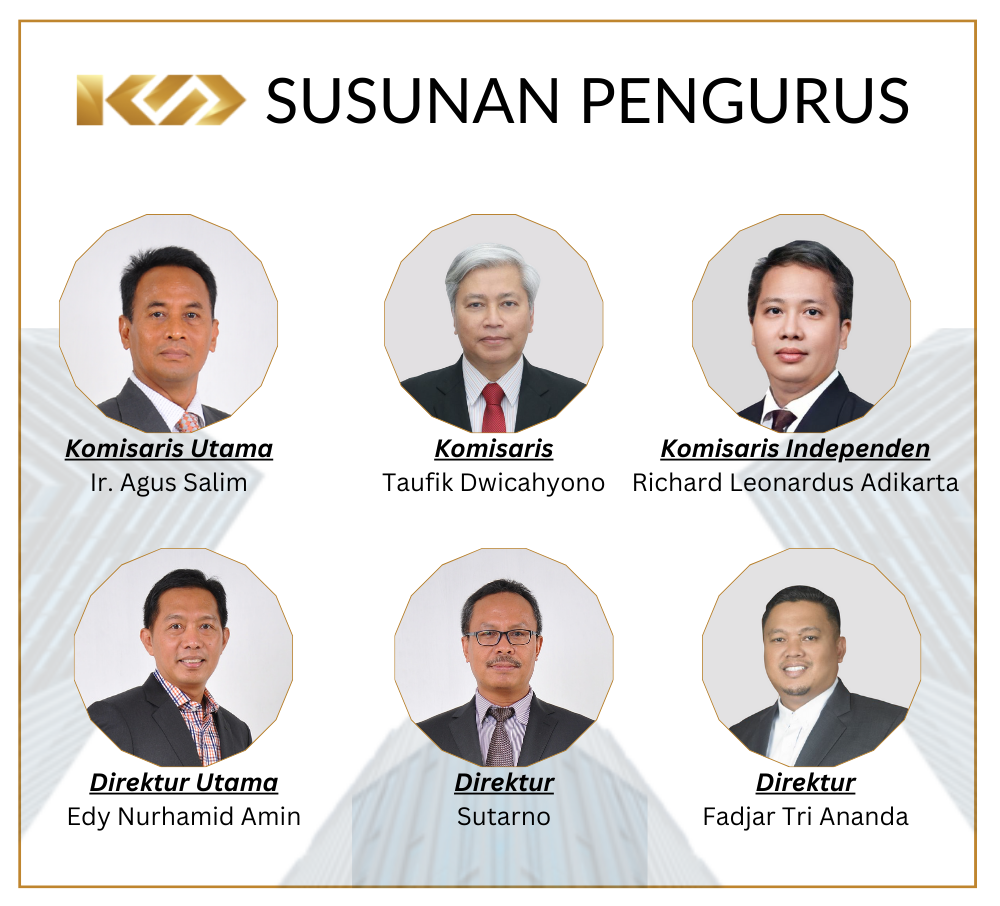
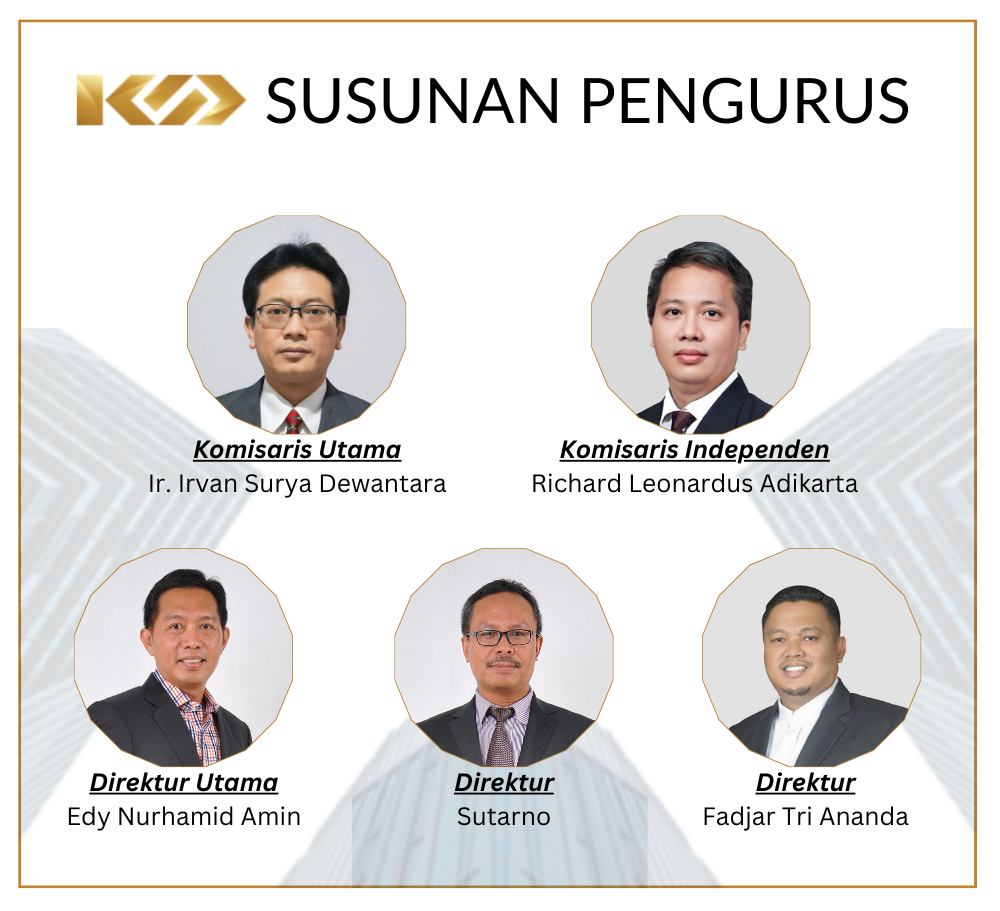
changes di menu Susunan Pengurus

diff --git a/resources/views/susunanPengurus.blade.php b/resources/views/susunanPengurus.blade.php
@@ -1,5 +1,6 @@
 @extends('layout')
 @section('content')
+
 <div class="container-fluid bg-primary py-5 bg-header" style="margin-bottom: 90px;">
     <div class="row py-5">
         <div class="col-12 pt-lg-5 mt-lg-5 text-center">
@@ -19,12 +20,12 @@
         </div>
         <div class="row">
             <img src="{{ asset('template/img/susunan.png') }}" alt="">
-            </div>
-        <div class="row py-5">
+        </div><br><br>
+        <!-- <div class="row py-5">
             <div class="col-12 text-center">
                 <div class="row">
-                    <div class="col-lg-4 col-md-6 vv profile-circel-image-200">
-                        <img src="{{ asset('image-pengurus/FOTO AGUS SALIM-01-01 (1).png') }}" class="img-fluid rounded-circle">
+                    <div class="card col-lg-6 col-md-6 vv profile-circel-image-200">
+                        <img src="{{ asset('image-pengurus/FOTO AGUS SALIM-01-01 (1).png') }}" class="img-fluid rounded-circle" style="margin-top:20px;">
                         <h5 class="mb-3 mt-5">Agus Salim</h5>
                         <h6><i>Komisaris Utama</i></h6>
                         <p class="mb-4 text-muted">
@@ -33,18 +34,8 @@
                             Memperoleh gelar Insinyur, kemudian Master of Science pada bidang Mechanical Engineering dari Delft University of Technology, Belanda, pada tahun 1993.
                         </p>
                     </div>
-                    <div class="col-lg-4 col-md-6 vv profile-circel-image-200">
-                        <img src="{{ asset('image-pengurus/FOTO TAUFIK DWI-01 (1).png') }}" class="rounded img-fluid rounded-circle">
-                        <h5 class="mb-3 mt-5">Taufik Dwicahyono</h5>
-                        <h6><i>Komisaris</i></h6>
-                        <p class="mb-4 text-muted">
-                            Warga Negara Indonesia, lahir pada tahun 1964. Diangkat sebagai Komisaris Perseroan sejak tahun 2023 dan memiliki masa jabatan sampai dengan 5 (lima) tahun sesuai dengan Anggaran Dasar Perseroan.
-                            <br><br>
-                            Memperoleh gelar Bachelor, kemudian Master of Science pada bidang Aerospace Engineering dari Delft University of Technology, Belanda, pada tahun 1995, Doctor of Philosophy (Ph.D) pada bidang Aerospace Engineering dari Cranfield University, Inggris, pada tahun 1999, Doktor pada bidang Teknologi Pertahanan dari Universitas Pertahanan Indonesia, pada tahun 2022.
-                        </p>
-                    </div>
-                    <div class="col-lg-4 col-md-6 vv profile-circel-image-200">
-                        <img src="{{ asset('image-pengurus/FOTO RICHARD-01-1-01-01 (1).png') }}" class="rounded img-fluid rounded-circle">
+                    <div class="card col-lg-6 col-md-6 vv profile-circel-image-200">
+                        <img src="{{ asset('image-pengurus/FOTO RICHARD-01-1-01-01 (1).png') }}" class="rounded img-fluid rounded-circle" style="margin-top:20px;">
                         <h5 class="mb-3 mt-5">Richard Leonardus A</h5>
                         <h6><i> Komisaris Independen</i></h6>
                         <p class="mb-4 text-muted">
@@ -55,8 +46,8 @@
                     </div>
                 </div>
                 <div class="row">
-                    <div class="col-lg-4 col-md-6 vv profile-circel-image-200">
-                        <img src="{{ asset('image-pengurus/FOTO EDY NURHAMID (1).jpg') }}" class="img-fluid rounded-circle">
+                    <div class="card col-lg-4 col-md-6 vv profile-circel-image-200">
+                        <img src="{{ asset('image-pengurus/FOTO EDY NURHAMID (1).jpg') }}" class="img-fluid rounded-circle" style="margin-top:20px;">
                         <h5 class="mb-3 mt-5">Edy Nurhamid Amin </h5>
                         <h6><i>Direktur Utama</i></h6>
                         <p class="mb-4 text-muted">
@@ -65,8 +56,8 @@
                         Memperoleh gelar Sarjana Teknik Mesin dari Universitas Brawijaya, Malang, pada tahun 1992.
                         </p>
                     </div>
-                    <div class="col-lg-4 col-md-6 vv profile-circel-image-200">
-                        <img src="{{ asset('image-pengurus/FOTO SUTARNO (1).jpg') }}" class="rounded img-fluid rounded-circle">
+                    <div class="card col-lg-4 col-md-6 vv profile-circel-image-200">
+                        <img src="{{ asset('image-pengurus/FOTO SUTARNO (1).jpg') }}" class="rounded img-fluid rounded-circle" style="margin-top:20px;">
                         <h5 class="mb-3 mt-5">Sutarno </h5>
                         <h6><i>Direktur</i></h6>
                         <p class="mb-4 text-muted">
@@ -75,8 +66,8 @@
                         Memperoleh gelar Insinyur, kemudian Master of Science pada bidang Mechanical Engineering dari Delft University of Technology, Belanda, pada tahun 1993, Magister Ekonomi dari Universitas Trisakti pada tahun 2018.   
                         </p>
                     </div>
-                    <div class="col-lg-4 col-md-6 vv profile-circel-image-200">
-                        <img src="{{ asset('image-pengurus/FOTO FADJAR TRI ANANDA - 01-01.png') }}" class="rounded img-fluid rounded-circle">
+                    <div class="card col-lg-4 col-md-6 vv profile-circel-image-200">
+                        <img src="{{ asset('image-pengurus/FOTO FADJAR TRI ANANDA - 01-01.png') }}" class="rounded img-fluid rounded-circle" style="margin-top:20px;">
                         <h5 class="mb-3 mt-5">Fadjar Tri Ananda</h5>
                         <h6><i>Direktur</i></h6>
                         <p class="mb-4 text-muted">
@@ -87,6 +78,81 @@
                     </div>
                 </div>
 
+            </div>
+        </div> -->
+        <div class="row row-cols-1 row-cols-md-2 g-4">
+            <div class="col">
+                <div class="card vv profile-circel-image-200 text-center">
+                    <img src="{{ asset('image-pengurus/Ir. Irvan Surya Dewantara.jpg') }}" class="img-fluid rounded-circle" style="margin-top:20px;">
+                    <div class="card-body">
+                        <h5 class="card-title text-center">Ir. Irvan Surya Dewantara</h5>
+                        <h6 class="text-center"><i>Komisaris Utama</i></h6><br>
+                        <p align="justify" class="card-text">Warga Negara Indonesia, lahir pada tahun 1965. Diangkat sebagai Komisaris Utama Perseroan sejak tahun 2023, memiliki masa jabatan sampai dengan 5 (lima) tahun sesai dengan Anggaran Dasar Perseroan.
+                            <br><br>
+                            Memperoleh gelar pada bidang Electrical Engineer dari Universitas Gajah Mada pada tahun 1985, Memperoleh gelar Insinyur pada bidang Electro Techniek dari Delft University of Technology, Belanda, pada tahun 1992.
+                        </p>
+                    </div>
+                </div>
+            </div>
+            <div class="col">
+                <div class="card vv profile-circel-image-200  text-center">
+                    <img src="{{ asset('image-pengurus/FOTO RICHARD-01-1-01-01 (1).png') }}" class="img-fluid rounded-circle" style="margin-top:20px;">
+                    <div class="card-body">
+                        <h5 class="card-title">Richard Leonardus Adikarta</h5>
+                        <h6><i> Komisaris Independen</i></h6><br>
+                        <p align="justify" class="card-text">
+                            Warga Negara Indonesia, lahir pada tahun 1976. Diangkat sebagai Komisaris Independen Perseroan sejak tahun 2023 dan memiliki masa jabatan sampai dengan 5 (lima) tahun sesuai dengan Anggaran Dasar Perseroan.
+                            <br><br>
+                            Memperoleh gelar Sarjana Ekonomi – Akuntansi dari Universitas Tarumanagara, pada tahun 2000.
+                            <br><br>
+                        </p>
+                    </div>
+                </div>
+            </div>
+        </div>
+        <div class="row row-cols-1 row-cols-md-3 g-4">
+            <div class="col">
+                <div class="card vv profile-circel-image-200  text-center">
+                    <img src="{{ asset('image-pengurus/FOTO EDY NURHAMID (1).jpg') }}" class="img-fluid rounded-circle" style="margin-top:20px;">
+                    <div class="card-body">
+                        <h5 class="card-title">Edy Nurhamid Amin</h5>
+                        <h6><i>Direktur Utama</i></h6><br>
+                        <p align="justify" class="card-text">
+                        Warga Negara Indonesia, lahir pada tahun 1969. Diangkat sebagai Direktur Utama Perseroan sejak tahun 2023 dan memiliki masa jabatan sampai dengan 5 (lima) tahun sesuai dengan Anggaran Dasar Perseroan.
+                        <br><br>
+                        Memperoleh gelar Sarjana Teknik Mesin dari Universitas Brawijaya, Malang, pada tahun 1992.
+                        <br><br><br><br>
+                        </p>
+                    </div>
+                </div>
+            </div>
+            <div class="col">
+                <div class="card vv profile-circel-image-200  text-center">
+                    <img src="{{ asset('image-pengurus/FOTO SUTARNO (1).jpg') }}" class="img-fluid rounded-circle" style="margin-top:20px;">
+                    <div class="card-body">
+                        <h5 class="card-title">Sutarno</h5>
+                        <h6><i>Direktur</i></h6><br>
+                        <p align="justify" class="card-text">
+                        Warga Negara Indonesia, lahir pada tahun 1962. Diangkat sebagai Direktur Perseroan sejak tahun 2023 dan memiliki masa jabatan sampai dengan 5 (lima) tahun sesuai dengan Anggaran Dasar Perseroan.
+                        <br><br>
+                        Memperoleh gelar Insinyur, kemudian Master of Science pada bidang Mechanical Engineering dari Delft University of Technology, Belanda, pada tahun 1993, Magister Ekonomi dari Universitas Trisakti pada tahun 2018.   
+                        </p>
+                    </div>
+                </div>
+            </div>
+            <div class="col">
+                <div class="card vv profile-circel-image-200  text-center">
+                    <img src="{{ asset('image-pengurus/FOTO FADJAR TRI ANANDA - 01-01.png') }}" class="img-fluid rounded-circle" style="margin-top:20px;">
+                    <div class="card-body">
+                        <h5 class="card-title">Fadjar Tri Ananda</h5>
+                        <h6><i>Direktur</i></h6><br>
+                        <p align="justify" class="card-text">
+                        Warga Negara Indonesia, lahir pada tahun 1978. Diangkat sebagai Direktur Perseroan sejak tahun 2018, terakhir diangkat kembali pada tahun 2023 dan memiliki masa jabatan sampai dengan 5 (lima) tahun sesuai dengan Anggaran Dasar Perseroan.
+                        <br><br>
+                        Selesai menempuh pendidikan terakhir di SMA Negeri 39 Jakarta.<br><br><br><br>
+                        </p>
+                    </div>
+                </div>
             </div>
         </div>
     </div>
